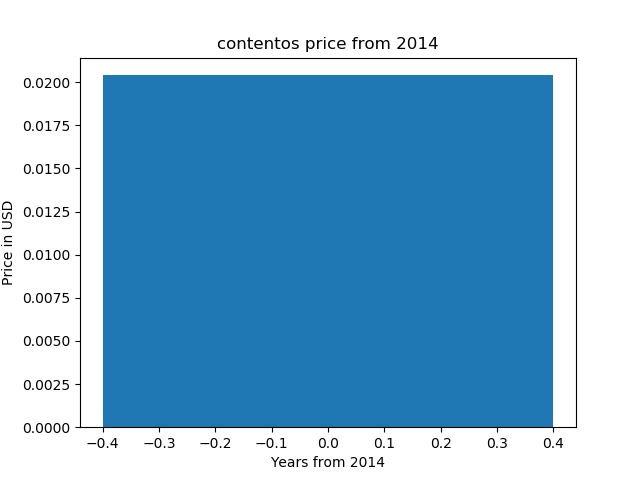
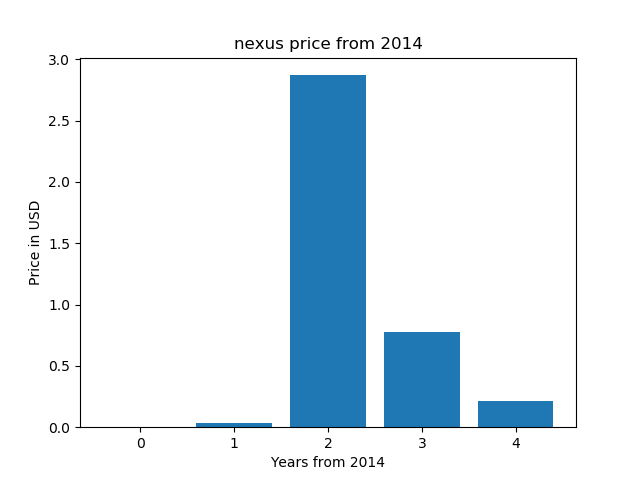
first commit

diff --git a/example.py b/example.py
@@ -10,7 +10,7 @@ from time import gmtime, strftime
 import matplotlib.pyplot as plt
 
 enddate = strftime("%Y%m%d", gmtime())
-r  = requests.get("https://coinmarketcap.com/currencies/contentos/historical-data/?start=20140101&end={0}".format(enddate))
+r  = requests.get("https://coinmarketcap.com/currencies/nexus/historical-data/?start=20140101&end={0}".format(enddate))
 data = r.text
 
 soup = BeautifulSoup(data, "html.parser")
@@ -44,7 +44,7 @@ print(x)
 
 x = list(range(0, len(prices)))
 
-plt.title('contentos price from 2014')
+plt.title('nexus price from 2014')
 plt.ylabel('Price in USD')
 plt.xlabel('Years from 2014')
 plt.bar(x, prices)

diff --git a/README.md b/README.md
@@ -1,6 +1,6 @@
-# contentos price chart 
+# nexus price chart 
 
-contentos price chart (matplotlib, python)
+nexus price chart (matplotlib, python)
 
 https://pythonprogramminglanguage.com
 
